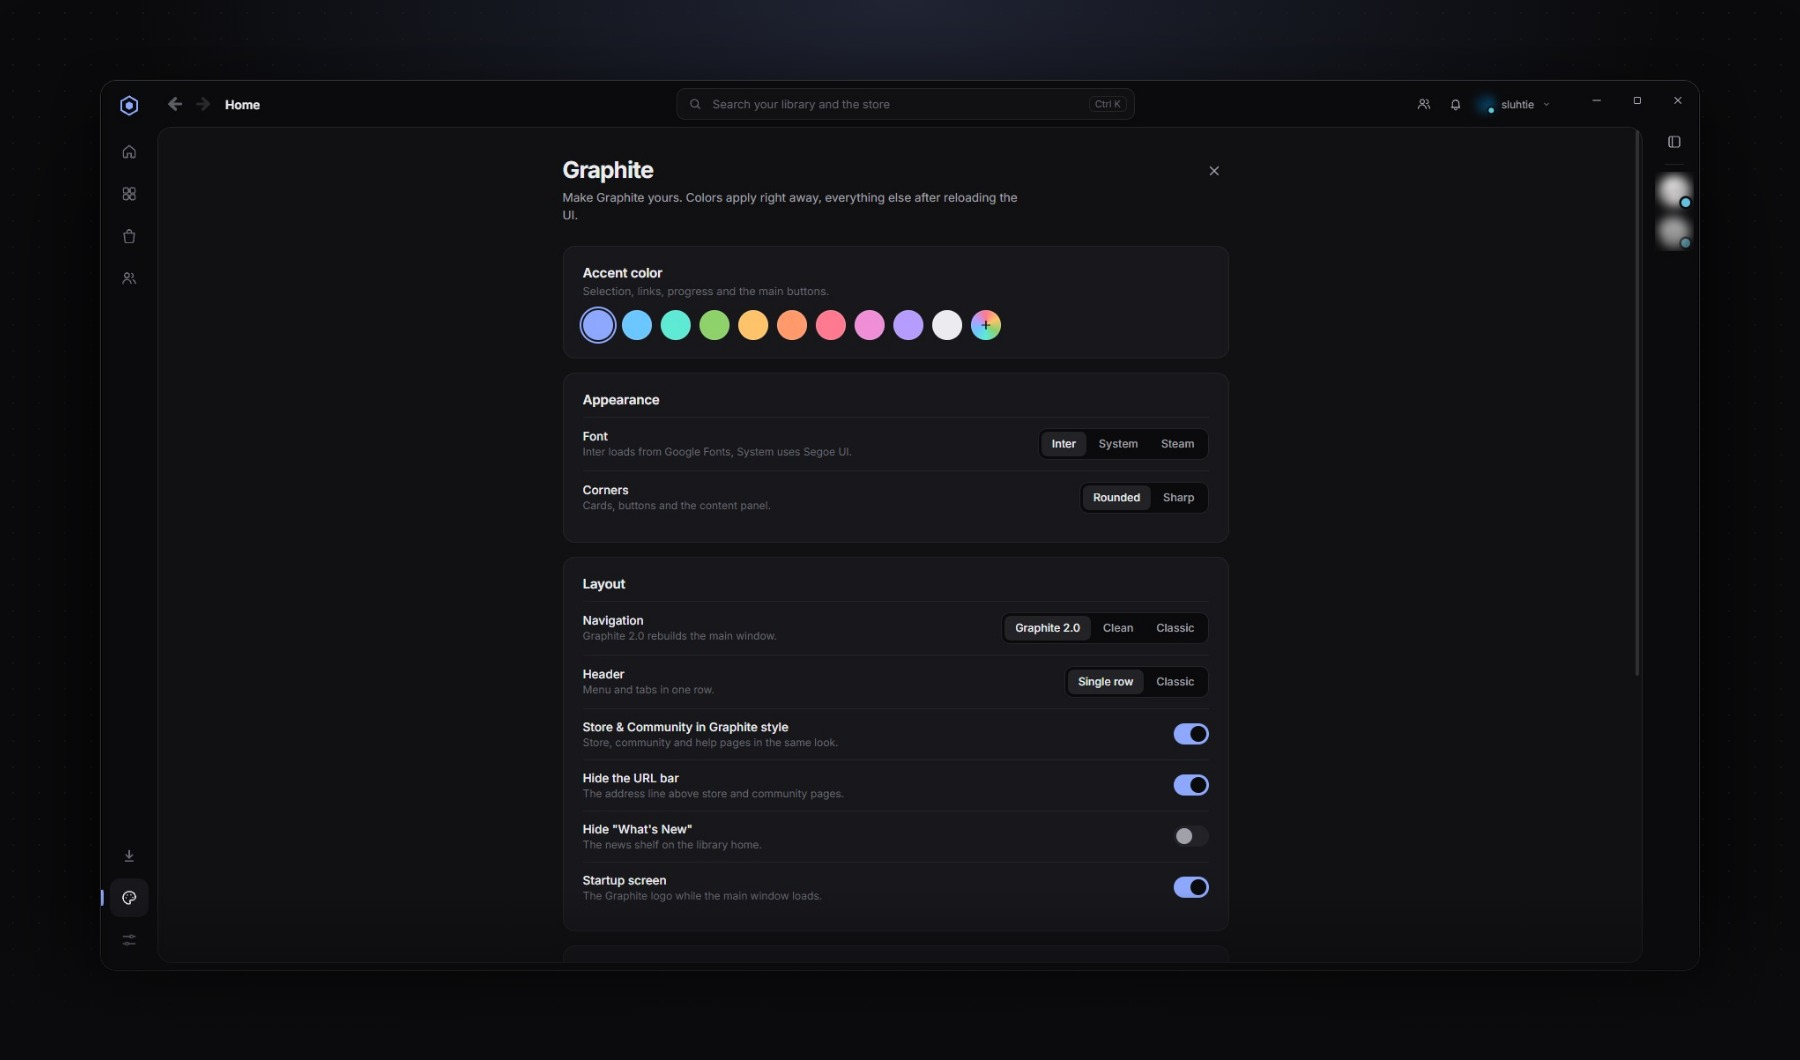
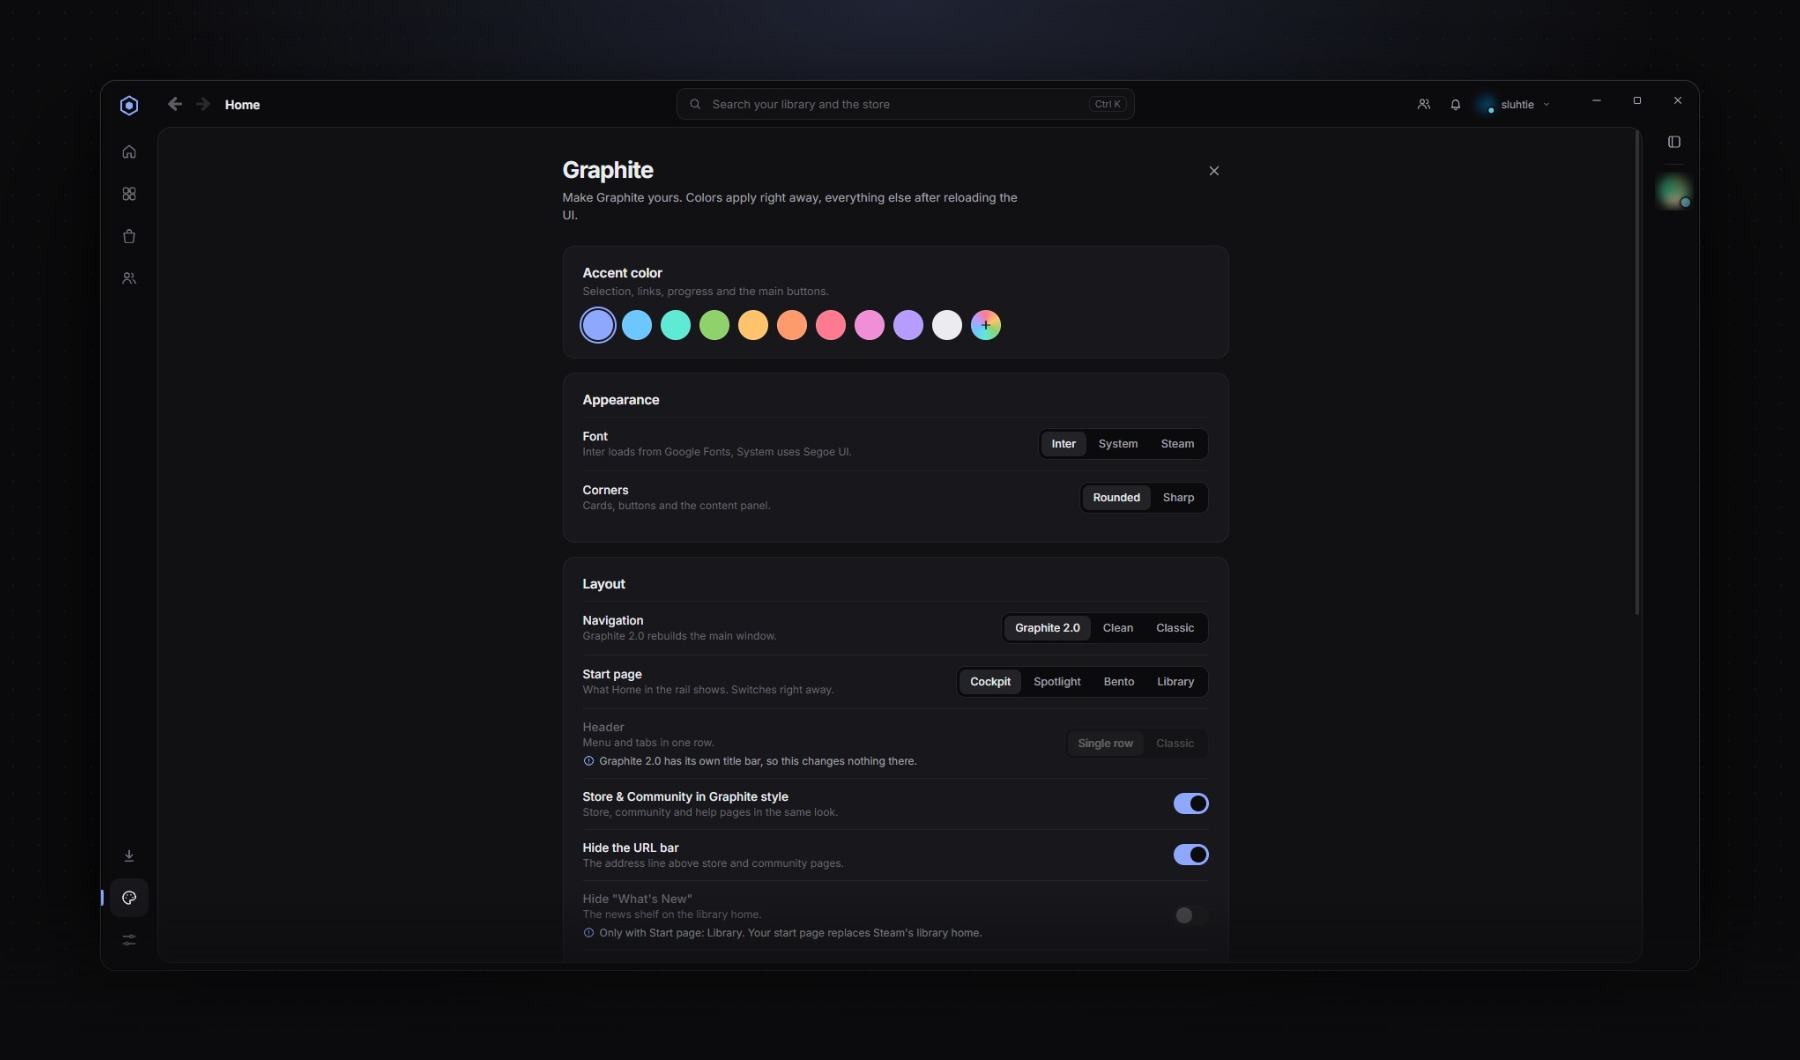
README for 2.1: what's new, start page screenshots
- "New in 2.1" intro and a "What's new in 2.1" section (start pages,
  Graphite page in every layout, options that show what works together,
  fixes) with screenshots of Cockpit, Spotlight and Bento; the 2.0 list
  becomes "The Graphite 2.0 layout".
- Graphite settings screenshot retaken (start page row, greyed options).
- Library row, install step and the shell.js description mention the
  start pages; docs/src/README.md lists the new shots.
- tools/render-docs.mjs: closes the whole browser through DevTools (on
  Windows killing the launched process left the browser running) and only
  uses a debugging port nothing listens on, so a leftover browser can't
  hand back an old page.

diff --git a/README.md b/README.md
@@ -6,7 +6,7 @@
 
 Neutral graphite surfaces, one accent color you choose and quiet typography. Graphite restyles the whole client, from the library and menus to the store, community and friends chat, without gradients, glow or visual noise.
 
-**New in 2.0:** a rebuilt app layout with an icon rail, one search for your library and the store, a side navigation for the store and community, a friends dock and a settings page of its own.
+**New in 2.1:** a start page of your own for Home (Cockpit, Spotlight or Bento), the Graphite settings page in every layout, layout options that show what works together, and fixes from your reports. Graphite 2.0 brought the rebuilt app layout with an icon rail, one search for your library and the store, a side navigation and a friends dock.
 
 [![Millennium theme](https://img.shields.io/badge/Millennium-theme-8fa8ff?style=for-the-badge&labelColor=18181c&logo=steam&logoColor=ececf0)](https://steambrew.app/theme/AhWCRyHBVXoohiaVWWBW)
 [![Version](https://img.shields.io/github/package-json/v/sluhtie/graphite-steam?style=for-the-badge&labelColor=18181c&color=8fa8ff&label=version)](https://github.com/sluhtie/graphite-steam/commits/main)
@@ -16,19 +16,44 @@ Neutral graphite surfaces, one accent color you choose and quiet typography. Gra
 
 ---
 
-## What's new in 2.0
+## What's new in 2.1
+
+![Start page: Cockpit](docs/home-cockpit.jpg)
+
+- **Start pages** for Home in Graphite 2.0, set under **Start page**:
+  - **Cockpit** (default): a greeting, your last game with Play, friends online, downloads or recently updated games, and your recently played games.
+  - **Spotlight**: your last game full-bleed, with recent games and friends / downloads along the bottom.
+  - **Bento**: tiles for your game, friends, downloads, playtime (last two weeks, most played) and collections.
+  - **Library**: Steam's library home with a "continue playing" card, as in 2.0.
+
+  It switches right away on the Graphite page. Your custom game art is used where you set it.
+- **Graphite page in every layout**: Clean and Classic open it with the palette button next to the notifications.
+- **Options that show what works together**: an option that has no effect with your other choices is greyed out and says what it needs. After picking a new layout, the page offers to restart Steam.
+- **Fixes**:
+  - the maximize button showing an X while maximized;
+  - the store's own navigation missing in Clean and Classic after a layout switch;
+  - Continue playing with non-Steam games;
+  - Hide URL bar now also working in Graphite 2.0;
+  - Brew Hub in Graphite colors;
+  - a new option to hide "Add shelf".
+
+| **Spotlight** | **Bento** |
+| --- | --- |
+| ![Start page: Spotlight](docs/home-spotlight.jpg) | ![Start page: Bento](docs/home-bento.jpg) |
+
+## The Graphite 2.0 layout
 
 ![Graphite 2.0 highlights](docs/features.jpg)
 
 Graphite 2.0 is the default layout for the main window. The earlier layouts stay available under **Navigation** (see [Make it yours](#make-it-yours)): Clean and Classic.
 
 - **Icon rail** on the left: Home, Library, Store, Community, Downloads (with a progress ring), Graphite settings and Steam settings. The Graphite logo replaces the Steam logo and holds View / Friends / Games / Help.
-- **Start page** of your choice for Home: **Cockpit** (your last game, friends online, downloads and recently played), **Spotlight** (your last game full-bleed) or **Bento** (tiles for game, friends, downloads, playtime and collections), or Steam's library home.
+- **Start page** of your own for Home (Cockpit, Spotlight, Bento; see [What's new in 2.1](#whats-new-in-21)), or Steam's library home.
 - **One search** in the title bar for your library and the store, with live store suggestions, prices and discounts as you type (`Ctrl K`).
 - **Side navigation** for the store (Discover, Wishlist, Points Shop, Cart, browse, categories, news, charts) and the community (activity, profile, friends, groups, discussions, workshop, market, inventory, badges ...). The page sits next to it in a rounded frame with a floating scrollbar and a thin loading bar.
 - **Friends dock** on the right: friends by status, a status menu (Online, Away, Invisible, Offline, Do not disturb), unread glow and your chats.
 - **Store, redesigned**: hero cards on the store front and on every category page (art, logo, description, price, add to cart, wishlist), a Points Shop with its own banner and category chips, calm capsules, prices and hover cards.
-- **Graphite settings page**: accent presets and every color applied live, font, corners and layout options, one click to reload the UI.
+- **Graphite settings page**: accent presets and every color applied live, font, corners and layout options, one click to reload the UI. Since 2.1 also in Clean and Classic.
 - **The details**: a startup screen and loading spinners with the Graphite logo, notifications and toasts in the same style.
 
 ## Screenshots
@@ -53,7 +78,7 @@ Graphite 2.0 is the default layout for the main window. The earlier layouts stay
 | --- | --- | --- |
 | 🧭 | **Navigation** | **Graphite 2.0:** icon rail, title bar search, side navigation for store and community, friends dock. **Clean:** one row with back / forward, Store / Library / Community, downloads, friends, notifications and account; View / Friends / Games / Help fold away behind the logo. **Classic:** Steam's own menus. |
 | 🪟 | **Window frame** | Own icon set for the title bar and window controls, round avatar with a status dot, no bottom bar. In 2.0 the store and community sit in a rounded frame with a loading bar. |
-| 🎮 | **Library** | Game list, home shelves and capsules, hover cards, game details (hero, play bar, sections, activity), news and patch notes overlay, downloads with the bandwidth graph, install / uninstall dialogs, console. |
+| 🎮 | **Library** | Start pages (Cockpit, Spotlight, Bento) in 2.0, game list, home shelves and capsules, hover cards, game details (hero, play bar, sections, activity), news and patch notes overlay, downloads with the bandwidth graph, install / uninstall dialogs, console. |
 | 🛒 | **Store** | Store front and category pages with one hero card each, game pages (one card per purchase option), wishlist and its dialogs, search with filters, new & trending, points shop and points history, discovery queue, news hub, calendar and charts. |
 | 👥 | **Community** | Home, hubs, discussions, workshop, activity, profiles, friends and groups, screenshots / artwork / guides, badges, inventory and the Community Market incl. the new item pages. |
 | 💬 | **Friends & chat** | Friends list with status dots, group chats with channels, a roomy chat window, emoji picker. |
@@ -94,7 +119,7 @@ Options other than colors take effect after reloading the UI (the Graphite page 
 
    You can also download the ZIP and extract it there.
 3. Restart Steam, open **Steam → Millennium → Themes** and select **Graphite**.
-4. Graphite 2.0 is the default layout. For Clean or Classic, change **Navigation** and restart Steam.
+4. Graphite 2.0 is the default layout, with the Cockpit start page. Pick another start page under **Start page**. For Clean or Classic, change **Navigation** and restart Steam.
 
 ## After a Steam update
 
@@ -123,7 +148,7 @@ Graphite's source CSS in `src/` uses readable tokens instead of hashes, and a sm
 
 The store and community are Valve's web pages. Older parts use stable class names; newer React parts use Valve's web design system, whose color scales Graphite remaps on `:root`. Small local scripts handle the rest:
 
-- **`src/scripts/shell.js`** (Navigation: Graphite 2.0): builds the 2.0 layout on top of Steam's own UI. Rail, search and side navigation use Steam's router and `steam://` URLs, so every page is still Steam's real page. The store and community are Steam's native browser view, which follows a placeholder element, so resizing that element moves the page into the frame. Also includes the Graphite settings page (`shell-theme.js`), the store hero cards and the Points Shop (`points.js`).
+- **`src/scripts/shell.js`** (Navigation: Graphite 2.0): builds the 2.0 layout on top of Steam's own UI. Rail, search and side navigation use Steam's router and `steam://` URLs, so every page is still Steam's real page. The store and community are Steam's native browser view, which follows a placeholder element, so resizing that element moves the page into the frame. Also includes the start pages (`shell-home.js`), the Graphite settings page (`shell-theme.js`), the store hero cards and the Points Shop (`points.js`). On store and community pages it asks Millennium for the layout and steps back if Graphite 2.0 isn't set, so a layout switch without a restart doesn't hide the store's own navigation.
 - **`src/scripts/web-recolor.js`** (Store & community option): swaps the hardcoded blue-greys of Valve's newest React pages for Graphite surfaces, and tags the parts of the wishlist, game pages, news hub, category pages and event overlay with stable `gr-*` classes, so the theme can restyle them despite Valve's changing class names.
 - **`src/scripts/clean.js`** (Navigation: Clean): `nav.js` stops the tab dropdowns from opening on hover, moves Downloads and Friends & Chat into the title bar and adds the community sub-navigation; `theme-page.js` adds the Graphite page with its title bar button.
 - **`src/scripts/theme-page.js`** (Navigation: Classic): the Graphite page and its title bar button.

diff --git a/docs/src/README.md b/docs/src/README.md
@@ -8,7 +8,7 @@ the repo root.
 | --- | --- | --- |
 | `docs/banner.webp` | `banner.html` | frames, then encode (below) |
 | `docs/thumbnail.jpg` (steambrew header) | `thumbnail.html` | `node tools/render-docs.mjs still docs/src/thumbnail.html docs/thumbnail.jpg 1920 1080` |
-| `docs/library.jpg`, `game.jpg`, `store.jpg`, `category.jpg`, `points.jpg`, `app.jpg`, `wishlist.jpg`, `market.jpg`, `graphite.jpg` | `frame.html#<shot>` | `node tools/render-docs.mjs still "docs/src/frame.html#library" docs/library.jpg 1800 1060` |
+| `docs/library.jpg`, `game.jpg`, `store.jpg`, `category.jpg`, `points.jpg`, `app.jpg`, `wishlist.jpg`, `market.jpg`, `graphite.jpg`, `home-cockpit.jpg`, `home-spotlight.jpg`, `home-bento.jpg` | `frame.html#<shot>` | `node tools/render-docs.mjs still "docs/src/frame.html#library" docs/library.jpg 1800 1060` |
 | `docs/features.jpg` | `features.html` | `node tools/render-docs.mjs still docs/src/features.html docs/features.jpg 1800 760` |
 | `docs/accents.jpg` | `accents.html` | `node tools/render-docs.mjs still docs/src/accents.html docs/accents.jpg 1800 1150` |
 | `docs/splash.jpg` (Millennium splash) | top of `shots/game.jpg` | crop to 3.56 : 1, 1811×509 |
